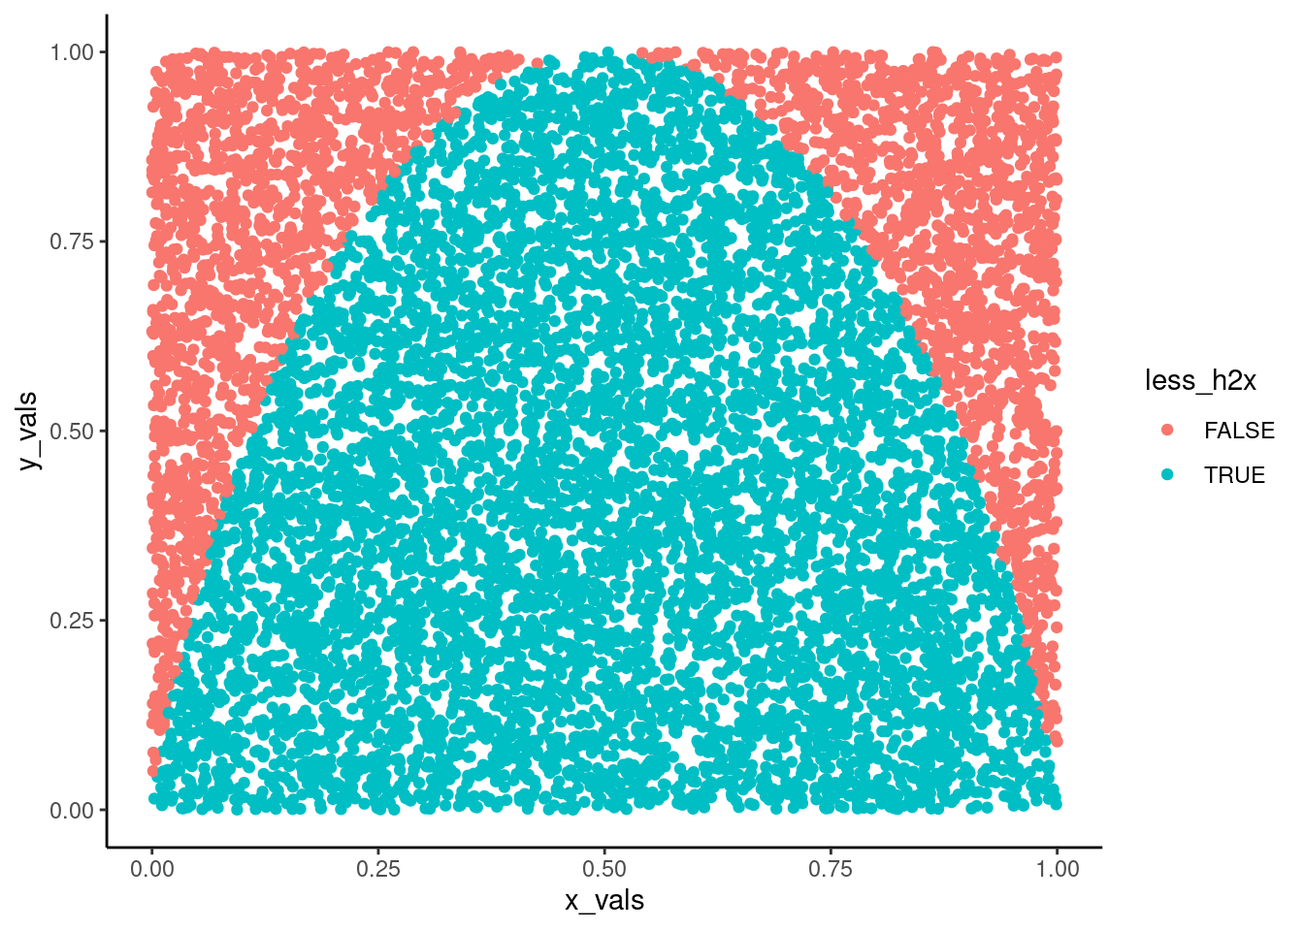
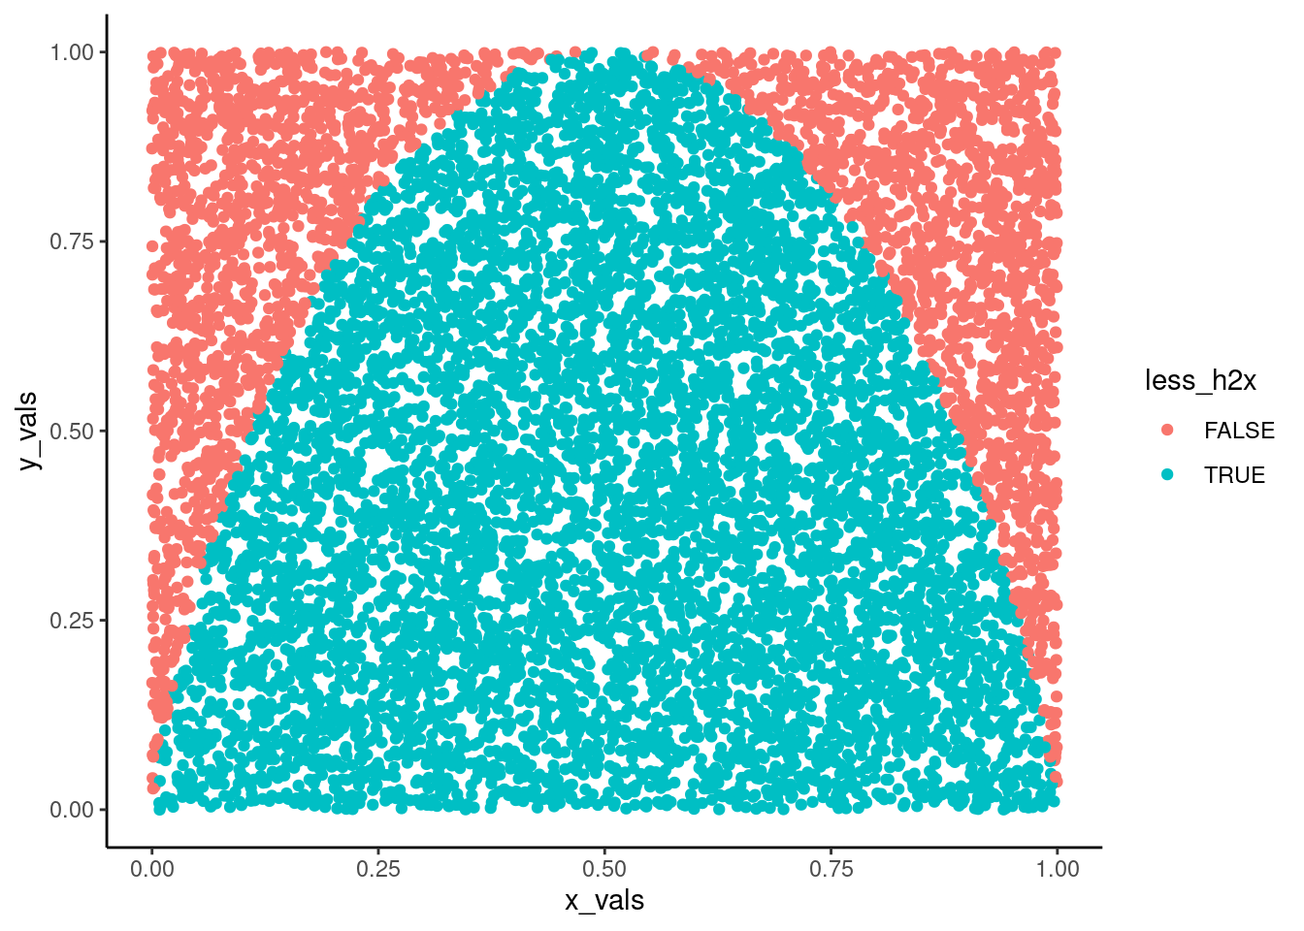
changed function names extended narrative

Changed region(s): [[0.0938, 0.0312, 0.8125, 0.875], [0.625, 0.9062, 0.6562, 0.9375]]

diff --git a/lets_integrate_h2_from_scratch.html b/lets_integrate_h2_from_scratch.html
@@ -205,10 +205,10 @@ Attaching package: 'dplyr'</code></pre>
 <span id="cb7-8"><a href="#cb7-8" aria-hidden="true" tabindex="-1"></a></span>
 <span id="cb7-9"><a href="#cb7-9" aria-hidden="true" tabindex="-1"></a>area_under_curve</span></code><button title="Copy to Clipboard" class="code-copy-button"><i class="bi"></i></button></pre></div>
 <div class="cell-output cell-output-stdout">
-<pre><code>[1] 0.7193</code></pre>
+<pre><code>[1] 0.7165</code></pre>
 </div>
 </div>
-<p>We can also visualize the area by plotting the individual dots passed to the sampler:</p>
+<p>We can also visualize the area by plotting the individual dots passed to the simulation.</p>
 <div class="cell">
 <div class="sourceCode cell-code" id="cb9"><pre class="sourceCode r code-with-copy"><code class="sourceCode r"><span id="cb9-1"><a href="#cb9-1" aria-hidden="true" tabindex="-1"></a>sampler_results <span class="sc">%&gt;%</span></span>
 <span id="cb9-2"><a href="#cb9-2" aria-hidden="true" tabindex="-1"></a>  <span class="fu">ggplot</span>(<span class="fu">aes</span>(<span class="at">x =</span> x_vals, <span class="at">y =</span> y_vals, <span class="at">color =</span> less_h2x)) <span class="sc">+</span></span>
@@ -218,14 +218,14 @@ Attaching package: 'dplyr'</code></pre>
 <p><img src="lets_integrate_h2_from_scratch_files/figure-html/unnamed-chunk-4-1.png" class="img-fluid" width="672"></p>
 </div>
 </div>
-<p>So the sampler is working. Now lets turn it into a function, so we can begin exploring it further.</p>
+<p>Now that we see that our sampler is working, lets turn it into a function, so we can begin exploring it further.</p>
 <div class="cell">
-<div class="sourceCode cell-code" id="cb10"><pre class="sourceCode r code-with-copy"><code class="sourceCode r"><span id="cb10-1"><a href="#cb10-1" aria-hidden="true" tabindex="-1"></a>sample_h2x <span class="ot">&lt;-</span> <span class="cf">function</span> (x1, x2, n_sims){</span>
+<div class="sourceCode cell-code" id="cb10"><pre class="sourceCode r code-with-copy"><code class="sourceCode r"><span id="cb10-1"><a href="#cb10-1" aria-hidden="true" tabindex="-1"></a>simulate_h2x <span class="ot">&lt;-</span> <span class="cf">function</span> (x1, x2, n_sims){</span>
 <span id="cb10-2"><a href="#cb10-2" aria-hidden="true" tabindex="-1"></a>  <span class="do">### Takes on values of x and returns the H2(x) integral between those values.</span></span>
 <span id="cb10-3"><a href="#cb10-3" aria-hidden="true" tabindex="-1"></a>  <span class="do">### Assumes x1 &lt; x2 and 0 &lt; x1, x2 &lt; 1</span></span>
 <span id="cb10-4"><a href="#cb10-4" aria-hidden="true" tabindex="-1"></a>  </span>
 <span id="cb10-5"><a href="#cb10-5" aria-hidden="true" tabindex="-1"></a>  </span>
-<span id="cb10-6"><a href="#cb10-6" aria-hidden="true" tabindex="-1"></a>  sampler_results <span class="ot">&lt;-</span> <span class="fu">data.frame</span>(<span class="at">x_vals =</span> <span class="fu">runif</span>(n_sims, x1, x2), </span>
+<span id="cb10-6"><a href="#cb10-6" aria-hidden="true" tabindex="-1"></a>  simulation_results <span class="ot">&lt;-</span> <span class="fu">data.frame</span>(<span class="at">x_vals =</span> <span class="fu">runif</span>(n_sims, x1, x2), </span>
 <span id="cb10-7"><a href="#cb10-7" aria-hidden="true" tabindex="-1"></a>                              <span class="at">y_vals =</span> <span class="fu">runif</span>(n_sims, <span class="dv">0</span>, <span class="dv">1</span>)) <span class="sc">%&gt;%</span></span>
 <span id="cb10-8"><a href="#cb10-8" aria-hidden="true" tabindex="-1"></a>  <span class="do">##Next check if the values are less than the H2(x) values</span></span>
 <span id="cb10-9"><a href="#cb10-9" aria-hidden="true" tabindex="-1"></a>  <span class="fu">mutate</span>(</span>
@@ -233,25 +233,18 @@ Attaching package: 'dplyr'</code></pre>
 <span id="cb10-11"><a href="#cb10-11" aria-hidden="true" tabindex="-1"></a>    <span class="at">less_h2x =</span> <span class="fu">if_else</span>(y_vals <span class="sc">&lt;=</span> h2x_vals, <span class="cn">TRUE</span>, <span class="cn">FALSE</span>) <span class="co">#I broke this up into two steps, so I can check if the intermediate steps work the way they should :)</span></span>
 <span id="cb10-12"><a href="#cb10-12" aria-hidden="true" tabindex="-1"></a>  )</span>
 <span id="cb10-13"><a href="#cb10-13" aria-hidden="true" tabindex="-1"></a>  </span>
-<span id="cb10-14"><a href="#cb10-14" aria-hidden="true" tabindex="-1"></a>  sampler_results</span>
+<span id="cb10-14"><a href="#cb10-14" aria-hidden="true" tabindex="-1"></a>  simulation_results</span>
 <span id="cb10-15"><a href="#cb10-15" aria-hidden="true" tabindex="-1"></a>}</span>
 <span id="cb10-16"><a href="#cb10-16" aria-hidden="true" tabindex="-1"></a></span>
 <span id="cb10-17"><a href="#cb10-17" aria-hidden="true" tabindex="-1"></a></span>
 <span id="cb10-18"><a href="#cb10-18" aria-hidden="true" tabindex="-1"></a><span class="co">#Run a visual test</span></span>
 <span id="cb10-19"><a href="#cb10-19" aria-hidden="true" tabindex="-1"></a></span>
-<span id="cb10-20"><a href="#cb10-20" aria-hidden="true" tabindex="-1"></a><span class="fu">sample_h2x</span>(<span class="fl">0.3</span>, <span class="fl">0.8</span>, <span class="dv">100</span>) <span class="sc">%&gt;%</span></span>
+<span id="cb10-20"><a href="#cb10-20" aria-hidden="true" tabindex="-1"></a><span class="fu">simulate_h2x</span>(<span class="fl">0.3</span>, <span class="fl">0.8</span>, <span class="dv">10000</span>) <span class="sc">%&gt;%</span></span>
 <span id="cb10-21"><a href="#cb10-21" aria-hidden="true" tabindex="-1"></a>  <span class="fu">ggplot</span>(<span class="fu">aes</span>(<span class="at">x =</span> x_vals, <span class="at">y =</span> y_vals, <span class="at">color =</span> less_h2x)) <span class="sc">+</span></span>
 <span id="cb10-22"><a href="#cb10-22" aria-hidden="true" tabindex="-1"></a>  <span class="fu">geom_point</span>() <span class="sc">+</span></span>
 <span id="cb10-23"><a href="#cb10-23" aria-hidden="true" tabindex="-1"></a>  <span class="fu">theme_classic</span>()</span></code><button title="Copy to Clipboard" class="code-copy-button"><i class="bi"></i></button></pre></div>
 <div class="cell-output-display">
 <p><img src="lets_integrate_h2_from_scratch_files/figure-html/unnamed-chunk-5-1.png" class="img-fluid" width="672"></p>
-</div>
-<div class="sourceCode cell-code" id="cb11"><pre class="sourceCode r code-with-copy"><code class="sourceCode r"><span id="cb11-1"><a href="#cb11-1" aria-hidden="true" tabindex="-1"></a><span class="fu">sample_h2x</span>(<span class="fl">0.3</span>, <span class="fl">0.8</span>, <span class="dv">100000</span>) <span class="sc">%&gt;%</span></span>
-<span id="cb11-2"><a href="#cb11-2" aria-hidden="true" tabindex="-1"></a>  <span class="fu">ggplot</span>(<span class="fu">aes</span>(<span class="at">x =</span> x_vals, <span class="at">y =</span> y_vals, <span class="at">color =</span> less_h2x)) <span class="sc">+</span></span>
-<span id="cb11-3"><a href="#cb11-3" aria-hidden="true" tabindex="-1"></a>  <span class="fu">geom_point</span>() <span class="sc">+</span></span>
-<span id="cb11-4"><a href="#cb11-4" aria-hidden="true" tabindex="-1"></a>  <span class="fu">theme_classic</span>()</span></code><button title="Copy to Clipboard" class="code-copy-button"><i class="bi"></i></button></pre></div>
-<div class="cell-output-display">
-<p><img src="lets_integrate_h2_from_scratch_files/figure-html/unnamed-chunk-5-2.png" class="img-fluid" width="672"></p>
 </div>
 </div>
 <p>So, we now have a working core sampler, what we do not have is something to produce results. This will require building a little more.</p>
@@ -261,50 +254,59 @@ Attaching package: 'dplyr'</code></pre>
 <p>* Build a wrapper function for the two.</p>
 <p>The reason for having two functions and a wrapper rather than a function running on top of the sampler, is that I want to avoid nesting functions. Also, it means that we can then use those seperately if need be (and there might be once we start getting deeper into the project).</p>
 <div class="cell">
-<div class="sourceCode cell-code" id="cb12"><pre class="sourceCode r code-with-copy"><code class="sourceCode r"><span id="cb12-1"><a href="#cb12-1" aria-hidden="true" tabindex="-1"></a>read_h2x_mc <span class="ot">&lt;-</span> <span class="cf">function</span> (mc_results, x1, x2, <span class="at">y1 =</span> <span class="dv">0</span>, <span class="at">y2 =</span> <span class="dv">1</span>){</span>
-<span id="cb12-2"><a href="#cb12-2" aria-hidden="true" tabindex="-1"></a>  <span class="do">###The function takes on the raw MC results and returns the area under the curve between X1 and x2.</span></span>
-<span id="cb12-3"><a href="#cb12-3" aria-hidden="true" tabindex="-1"></a>  </span>
-<span id="cb12-4"><a href="#cb12-4" aria-hidden="true" tabindex="-1"></a>  area_checked <span class="ot">&lt;-</span> (x2 <span class="sc">-</span> x1) <span class="sc">*</span> (y2 <span class="sc">-</span> y1)</span>
-<span id="cb12-5"><a href="#cb12-5" aria-hidden="true" tabindex="-1"></a>  </span>
-<span id="cb12-6"><a href="#cb12-6" aria-hidden="true" tabindex="-1"></a>  result <span class="ot">&lt;-</span> mc_results <span class="sc">%&gt;%</span></span>
-<span id="cb12-7"><a href="#cb12-7" aria-hidden="true" tabindex="-1"></a>    <span class="fu">summarize</span>(</span>
-<span id="cb12-8"><a href="#cb12-8" aria-hidden="true" tabindex="-1"></a>      <span class="at">n_total =</span> <span class="fu">n</span>(),</span>
-<span id="cb12-9"><a href="#cb12-9" aria-hidden="true" tabindex="-1"></a>      <span class="at">n_under =</span> <span class="fu">sum</span>(less_h2x),</span>
-<span id="cb12-10"><a href="#cb12-10" aria-hidden="true" tabindex="-1"></a>      <span class="at">area_under_curve =</span> area_checked <span class="sc">*</span> n_under <span class="sc">/</span> n_total</span>
-<span id="cb12-11"><a href="#cb12-11" aria-hidden="true" tabindex="-1"></a>    ) <span class="sc">%&gt;%</span></span>
-<span id="cb12-12"><a href="#cb12-12" aria-hidden="true" tabindex="-1"></a>    <span class="fu">pull</span>(area_under_curve)</span>
-<span id="cb12-13"><a href="#cb12-13" aria-hidden="true" tabindex="-1"></a>    </span>
-<span id="cb12-14"><a href="#cb12-14" aria-hidden="true" tabindex="-1"></a>  </span>
-<span id="cb12-15"><a href="#cb12-15" aria-hidden="true" tabindex="-1"></a>  <span class="fu">round</span>(result[<span class="dv">1</span>], <span class="dv">3</span>) <span class="co">#Return as a single value, not a vector</span></span>
-<span id="cb12-16"><a href="#cb12-16" aria-hidden="true" tabindex="-1"></a>  </span>
-<span id="cb12-17"><a href="#cb12-17" aria-hidden="true" tabindex="-1"></a>}</span>
-<span id="cb12-18"><a href="#cb12-18" aria-hidden="true" tabindex="-1"></a></span>
-<span id="cb12-19"><a href="#cb12-19" aria-hidden="true" tabindex="-1"></a><span class="do">##Test</span></span>
-<span id="cb12-20"><a href="#cb12-20" aria-hidden="true" tabindex="-1"></a><span class="fu">sample_h2x</span>(<span class="dv">0</span>, <span class="dv">1</span>, <span class="dv">10000</span>) <span class="sc">%&gt;%</span></span>
-<span id="cb12-21"><a href="#cb12-21" aria-hidden="true" tabindex="-1"></a>  <span class="fu">read_h2x_mc</span>(<span class="at">x1 =</span> <span class="dv">0</span>, <span class="at">x2 =</span> <span class="dv">1</span>)</span></code><button title="Copy to Clipboard" class="code-copy-button"><i class="bi"></i></button></pre></div>
+<div class="sourceCode cell-code" id="cb11"><pre class="sourceCode r code-with-copy"><code class="sourceCode r"><span id="cb11-1"><a href="#cb11-1" aria-hidden="true" tabindex="-1"></a>read_h2x_mc <span class="ot">&lt;-</span> <span class="cf">function</span> (mc_results, x1, x2, <span class="at">y1 =</span> <span class="dv">0</span>, <span class="at">y2 =</span> <span class="dv">1</span>){</span>
+<span id="cb11-2"><a href="#cb11-2" aria-hidden="true" tabindex="-1"></a>  <span class="do">###The function takes on the raw MC results and returns the area under the curve between X1 and x2.</span></span>
+<span id="cb11-3"><a href="#cb11-3" aria-hidden="true" tabindex="-1"></a>  </span>
+<span id="cb11-4"><a href="#cb11-4" aria-hidden="true" tabindex="-1"></a>  area_checked <span class="ot">&lt;-</span> (x2 <span class="sc">-</span> x1) <span class="sc">*</span> (y2 <span class="sc">-</span> y1)</span>
+<span id="cb11-5"><a href="#cb11-5" aria-hidden="true" tabindex="-1"></a>  </span>
+<span id="cb11-6"><a href="#cb11-6" aria-hidden="true" tabindex="-1"></a>  result <span class="ot">&lt;-</span> mc_results <span class="sc">%&gt;%</span></span>
+<span id="cb11-7"><a href="#cb11-7" aria-hidden="true" tabindex="-1"></a>    <span class="fu">summarize</span>(</span>
+<span id="cb11-8"><a href="#cb11-8" aria-hidden="true" tabindex="-1"></a>      <span class="at">n_total =</span> <span class="fu">n</span>(),</span>
+<span id="cb11-9"><a href="#cb11-9" aria-hidden="true" tabindex="-1"></a>      <span class="at">n_under =</span> <span class="fu">sum</span>(less_h2x),</span>
+<span id="cb11-10"><a href="#cb11-10" aria-hidden="true" tabindex="-1"></a>      <span class="at">area_under_curve =</span> area_checked <span class="sc">*</span> n_under <span class="sc">/</span> n_total</span>
+<span id="cb11-11"><a href="#cb11-11" aria-hidden="true" tabindex="-1"></a>    ) <span class="sc">%&gt;%</span></span>
+<span id="cb11-12"><a href="#cb11-12" aria-hidden="true" tabindex="-1"></a>    <span class="fu">pull</span>(area_under_curve)</span>
+<span id="cb11-13"><a href="#cb11-13" aria-hidden="true" tabindex="-1"></a>    </span>
+<span id="cb11-14"><a href="#cb11-14" aria-hidden="true" tabindex="-1"></a>  </span>
+<span id="cb11-15"><a href="#cb11-15" aria-hidden="true" tabindex="-1"></a>  <span class="fu">round</span>(result[<span class="dv">1</span>], <span class="dv">3</span>) <span class="co">#Return as a single value, not a vector</span></span>
+<span id="cb11-16"><a href="#cb11-16" aria-hidden="true" tabindex="-1"></a>  </span>
+<span id="cb11-17"><a href="#cb11-17" aria-hidden="true" tabindex="-1"></a>}</span>
+<span id="cb11-18"><a href="#cb11-18" aria-hidden="true" tabindex="-1"></a></span>
+<span id="cb11-19"><a href="#cb11-19" aria-hidden="true" tabindex="-1"></a><span class="do">##Test</span></span>
+<span id="cb11-20"><a href="#cb11-20" aria-hidden="true" tabindex="-1"></a><span class="fu">simulate_h2x</span>(<span class="dv">0</span>, <span class="dv">1</span>, <span class="dv">10000</span>) <span class="sc">%&gt;%</span></span>
+<span id="cb11-21"><a href="#cb11-21" aria-hidden="true" tabindex="-1"></a>  <span class="fu">read_h2x_mc</span>(<span class="at">x1 =</span> <span class="dv">0</span>, <span class="at">x2 =</span> <span class="dv">1</span>)</span></code><button title="Copy to Clipboard" class="code-copy-button"><i class="bi"></i></button></pre></div>
 <div class="cell-output cell-output-stdout">
-<pre><code>[1] 0.721</code></pre>
+<pre><code>[1] 0.719</code></pre>
 </div>
 </div>
 <div class="cell">
-<div class="sourceCode cell-code" id="cb14"><pre class="sourceCode r code-with-copy"><code class="sourceCode r"><span id="cb14-1"><a href="#cb14-1" aria-hidden="true" tabindex="-1"></a>wrap_h2x_mc <span class="ot">&lt;-</span> <span class="cf">function</span> (x1, x2, <span class="at">y1 =</span> <span class="dv">0</span>, <span class="at">y2 =</span> <span class="dv">0</span>, n_sims){</span>
-<span id="cb14-2"><a href="#cb14-2" aria-hidden="true" tabindex="-1"></a>  <span class="do">###Wrapper function chaining the actual MC simulation and the result reader</span></span>
-<span id="cb14-3"><a href="#cb14-3" aria-hidden="true" tabindex="-1"></a>  </span>
-<span id="cb14-4"><a href="#cb14-4" aria-hidden="true" tabindex="-1"></a>  <span class="fu">sample_h2x</span>(x1, x2, n_sims) <span class="sc">%&gt;%</span></span>
-<span id="cb14-5"><a href="#cb14-5" aria-hidden="true" tabindex="-1"></a>    <span class="fu">read_h2x_mc</span>(x1, x2)</span>
-<span id="cb14-6"><a href="#cb14-6" aria-hidden="true" tabindex="-1"></a>  </span>
-<span id="cb14-7"><a href="#cb14-7" aria-hidden="true" tabindex="-1"></a>}</span>
-<span id="cb14-8"><a href="#cb14-8" aria-hidden="true" tabindex="-1"></a></span>
-<span id="cb14-9"><a href="#cb14-9" aria-hidden="true" tabindex="-1"></a><span class="do">##Test</span></span>
-<span id="cb14-10"><a href="#cb14-10" aria-hidden="true" tabindex="-1"></a><span class="fu">wrap_h2x_mc</span>(<span class="at">x1=</span> <span class="fl">0.2</span>, <span class="at">x2 =</span> <span class="fl">0.35</span>, <span class="at">n_sims =</span> <span class="dv">5000</span>)</span></code><button title="Copy to Clipboard" class="code-copy-button"><i class="bi"></i></button></pre></div>
+<div class="sourceCode cell-code" id="cb13"><pre class="sourceCode r code-with-copy"><code class="sourceCode r"><span id="cb13-1"><a href="#cb13-1" aria-hidden="true" tabindex="-1"></a>wrap_h2x_mc <span class="ot">&lt;-</span> <span class="cf">function</span> (x1, x2, <span class="at">y1 =</span> <span class="dv">0</span>, <span class="at">y2 =</span> <span class="dv">0</span>, n_sims){</span>
+<span id="cb13-2"><a href="#cb13-2" aria-hidden="true" tabindex="-1"></a>  <span class="do">###Wrapper function chaining the actual MC simulation and the result reader</span></span>
+<span id="cb13-3"><a href="#cb13-3" aria-hidden="true" tabindex="-1"></a>  </span>
+<span id="cb13-4"><a href="#cb13-4" aria-hidden="true" tabindex="-1"></a>  <span class="fu">simulate_h2x</span>(x1, x2, n_sims) <span class="sc">%&gt;%</span></span>
+<span id="cb13-5"><a href="#cb13-5" aria-hidden="true" tabindex="-1"></a>    <span class="fu">read_h2x_mc</span>(x1, x2)</span>
+<span id="cb13-6"><a href="#cb13-6" aria-hidden="true" tabindex="-1"></a>  </span>
+<span id="cb13-7"><a href="#cb13-7" aria-hidden="true" tabindex="-1"></a>}</span>
+<span id="cb13-8"><a href="#cb13-8" aria-hidden="true" tabindex="-1"></a></span>
+<span id="cb13-9"><a href="#cb13-9" aria-hidden="true" tabindex="-1"></a><span class="do">##Test</span></span>
+<span id="cb13-10"><a href="#cb13-10" aria-hidden="true" tabindex="-1"></a><span class="fu">wrap_h2x_mc</span>(<span class="at">x1=</span> <span class="fl">0.2</span>, <span class="at">x2 =</span> <span class="fl">0.35</span>, <span class="at">n_sims =</span> <span class="dv">5000</span>)</span></code><button title="Copy to Clipboard" class="code-copy-button"><i class="bi"></i></button></pre></div>
 <div class="cell-output cell-output-stdout">
-<pre><code>[1] 0.128</code></pre>
+<pre><code>[1] 0.126</code></pre>
 </div>
 </div>
-<p>We thus have a function that takes on the x-values for which we want to calculate the integral of H2(x) and returns an MC estimate of the area under the curve. However, because we are doing Monte Carlo simulations, the result is always a little off from the actual result. We can minimize this discrepancy by increasing the sample size, however this comes at the cost of having to create more simulated results, which in turns translates to greater computational requirements. Does it matter for this kind of project? Not really, but it would be fun to finish with something that attains a given level of accuracy by itself, while also modulating the height of the envelope (remember, the more space above the curve gets samples, the lower the simulation efficiency!).</p>
+<p>We thus have a function that takes on the x-values for which we want to calculate the integral of H2(x) and returns an MC estimate of the area under the curve. However, because we are doing Monte Carlo simulations, the result is always a little off from the actual result. This is because, unless we have placed a lot of points into the simulation, we will always have a slightly different result different times we simulate. Or to put it visually - when there are too few points, we can’t capture the function well (see the figure below).</p>
+<div class="cell">
+<div class="sourceCode cell-code" id="cb15"><pre class="sourceCode r code-with-copy"><code class="sourceCode r"><span id="cb15-1"><a href="#cb15-1" aria-hidden="true" tabindex="-1"></a><span class="fu">simulate_h2x</span>(<span class="dv">0</span>, <span class="dv">1</span>, <span class="dv">500</span>) <span class="sc">%&gt;%</span></span>
+<span id="cb15-2"><a href="#cb15-2" aria-hidden="true" tabindex="-1"></a>  <span class="fu">ggplot</span>(<span class="fu">aes</span>(<span class="at">x =</span> x_vals, <span class="at">y =</span> y_vals, <span class="at">color =</span> less_h2x)) <span class="sc">+</span></span>
+<span id="cb15-3"><a href="#cb15-3" aria-hidden="true" tabindex="-1"></a>  <span class="fu">geom_point</span>() <span class="sc">+</span></span>
+<span id="cb15-4"><a href="#cb15-4" aria-hidden="true" tabindex="-1"></a>  <span class="fu">theme_classic</span>()</span></code><button title="Copy to Clipboard" class="code-copy-button"><i class="bi"></i></button></pre></div>
+<div class="cell-output-display">
+<p><img src="lets_integrate_h2_from_scratch_files/figure-html/unnamed-chunk-8-1.png" class="img-fluid" width="672"></p>
+</div>
+</div>
+<p>We can minimize this discrepancy by increasing the sample size, however this comes at the cost of having to create more simulated results, which in turns translates to greater computational requirements. Does it matter for this kind of project? Not really, but it would be fun to finish with something that attains a given level of accuracy by itself, while also modulating the height of the envelope (remember, the more space above the curve gets samples, the lower the simulation efficiency!).</p>
 <p>To do this we shall write a new, more complex wrapper function. What it will take on in addition is the target standard deviation of a group of MC simulations, as well as the x1 and x2 constraints. What it will return is the mean value of five simulations, alongside the standard deviation of the group - which has to be less than the target set at the beginning. What it will also need to do is figure out the maximum value of y for the given x1/x2 and use that to set the simulation parameters. Last, we want it to get there without any extra input.</p>
-<p>The way we can do this is through the following steps: 1. First determine the value of y1 2. Initiate a while loop that looks for getting the SD level we want. 3. Once it gets desired precision, break out of the while loop and return the result.</p>
-<p>Actually, to make this a little more fun, lets set the number of individual simulation to be a variable as well. Thus, the function we are after looks something like this:</p>
+<p>The way we can do this is through the following steps: 1. First determine the value of y2 (y1 is always zero for H2(x)). Initiate a while loop that looks for getting the SD level we want. 3. Once it gets desired precision, break out of the while loop and return the result.To make this a little more fun, lets set the number of individual simulation to be a variable as well. Thus, the function we are after looks something like this:</p>
 <div class="cell">
 <div class="sourceCode cell-code" id="cb16"><pre class="sourceCode r code-with-copy"><code class="sourceCode r"><span id="cb16-1"><a href="#cb16-1" aria-hidden="true" tabindex="-1"></a>wrap_control_h2x_mc <span class="ot">&lt;-</span> <span class="cf">function</span> (x1, x2, target_sd, num_mcs){</span>
 <span id="cb16-2"><a href="#cb16-2" aria-hidden="true" tabindex="-1"></a>  <span class="do">### The function takes on arguments relating to the range over which we want to integrate and returns the distribution of num_mcs results, with an SD of less than the target_sd.</span></span>
@@ -326,7 +328,7 @@ Attaching package: 'dplyr'</code></pre>
 <span id="cb16-18"><a href="#cb16-18" aria-hidden="true" tabindex="-1"></a>    mc_results <span class="ot">&lt;-</span> <span class="fu">c</span>()</span>
 <span id="cb16-19"><a href="#cb16-19" aria-hidden="true" tabindex="-1"></a>    </span>
 <span id="cb16-20"><a href="#cb16-20" aria-hidden="true" tabindex="-1"></a>    <span class="cf">for</span> (i <span class="cf">in</span> <span class="dv">1</span><span class="sc">:</span>num_mcs) {</span>
-<span id="cb16-21"><a href="#cb16-21" aria-hidden="true" tabindex="-1"></a>      indiv_mc_result <span class="ot">&lt;-</span> <span class="fu">sample_h2x</span>(x1, x2, n_sims) <span class="sc">%&gt;%</span></span>
+<span id="cb16-21"><a href="#cb16-21" aria-hidden="true" tabindex="-1"></a>      indiv_mc_result <span class="ot">&lt;-</span> <span class="fu">simulate_h2x</span>(x1, x2, n_sims) <span class="sc">%&gt;%</span></span>
 <span id="cb16-22"><a href="#cb16-22" aria-hidden="true" tabindex="-1"></a>        <span class="fu">read_h2x_mc</span>(x1, x2, <span class="at">y1 =</span> <span class="dv">0</span>, <span class="at">y2 =</span> y2)</span>
 <span id="cb16-23"><a href="#cb16-23" aria-hidden="true" tabindex="-1"></a>      </span>
 <span id="cb16-24"><a href="#cb16-24" aria-hidden="true" tabindex="-1"></a>      mc_results <span class="ot">&lt;-</span> <span class="fu">c</span>(mc_results, indiv_mc_result)</span>
@@ -351,7 +353,7 @@ Attaching package: 'dplyr'</code></pre>
 <span id="cb16-43"><a href="#cb16-43" aria-hidden="true" tabindex="-1"></a><span class="fu">wrap_control_h2x_mc</span>(<span class="at">x1 =</span> <span class="dv">0</span>, <span class="at">x2=</span>  <span class="dv">1</span>, <span class="at">target_sd =</span> <span class="fl">0.001</span>, <span class="at">num_mcs =</span> <span class="dv">5</span>)</span></code><button title="Copy to Clipboard" class="code-copy-button"><i class="bi"></i></button></pre></div>
 <div class="cell-output cell-output-stdout">
 <pre><code>       mc_mu     mc_sigma       n_sims 
-7.224000e-01 8.944272e-04 1.280000e+05 </code></pre>
+7.210000e-01 7.071068e-04 2.560000e+05 </code></pre>
 </div>
 <div class="sourceCode cell-code" id="cb18"><pre class="sourceCode r code-with-copy"><code class="sourceCode r"><span id="cb18-1"><a href="#cb18-1" aria-hidden="true" tabindex="-1"></a><span class="fu">wrap_control_h2x_mc</span>(<span class="at">x1 =</span> <span class="dv">0</span>, <span class="at">x2 =</span> <span class="fl">0.2</span>, <span class="at">target_sd =</span> <span class="fl">0.000001</span>, <span class="at">num_mcs =</span> <span class="dv">5</span>)</span></code><button title="Copy to Clipboard" class="code-copy-button"><i class="bi"></i></button></pre></div>
 <div class="cell-output cell-output-stdout">
